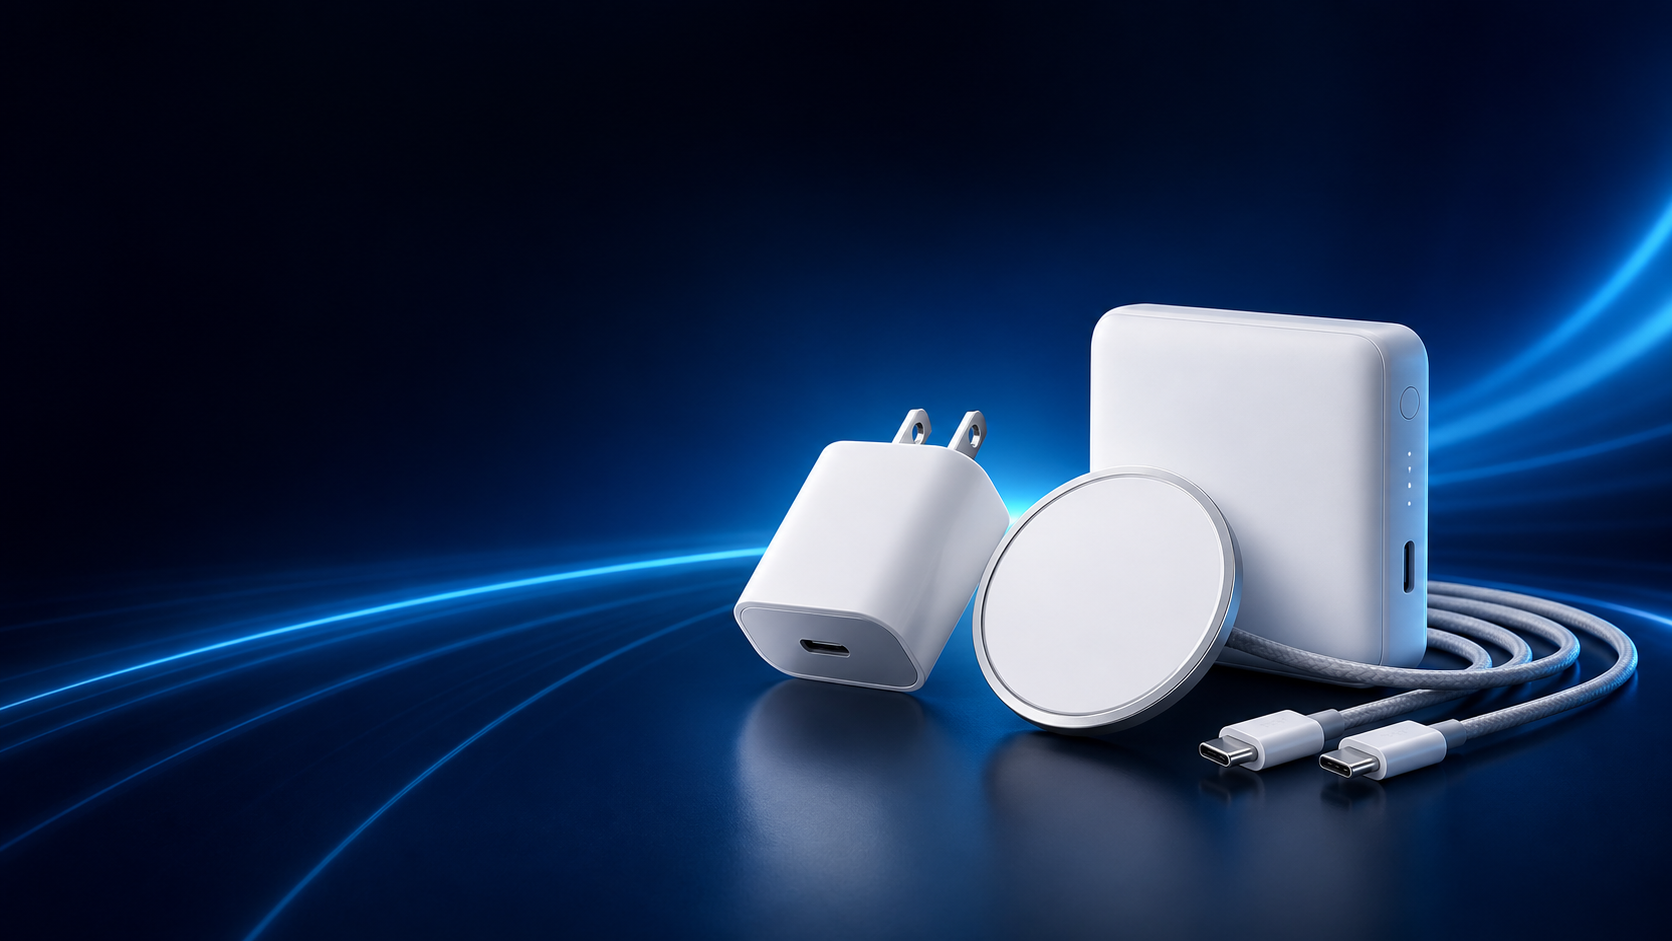
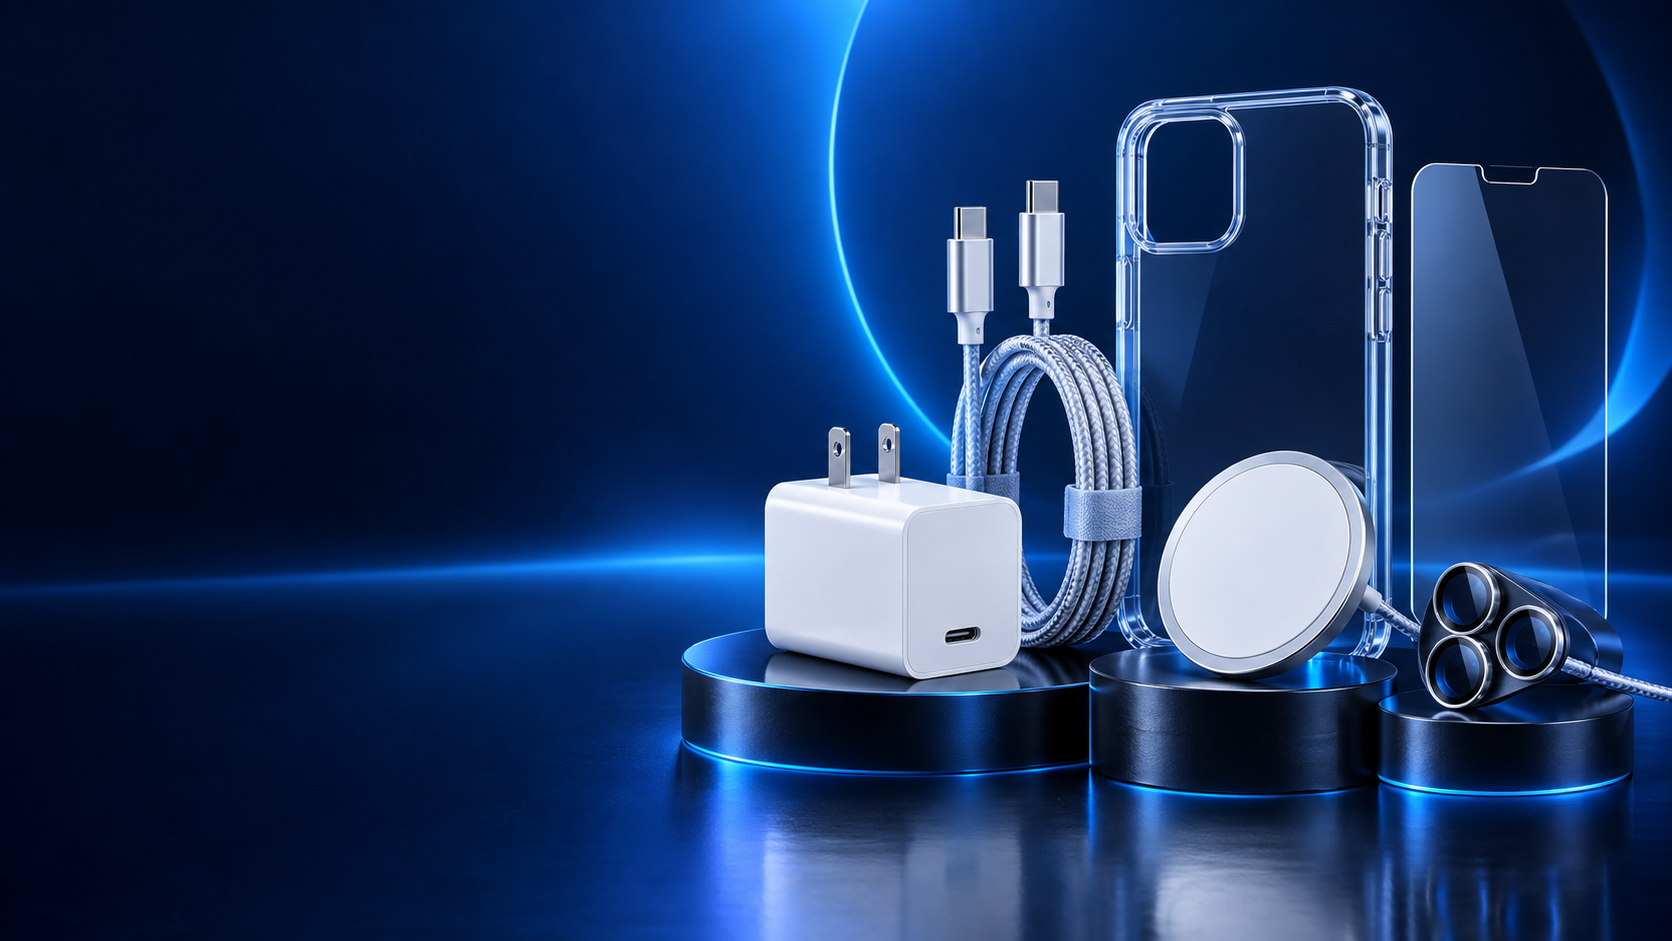
apply latest deployment

diff --git a/scripts/rm-mobile-hub-data.js b/scripts/rm-mobile-hub-data.js
@@ -1,19 +1,19 @@
 const storeProfile = {
   name: 'RM Mobile Hub',
-  description: 'Fast chargers, durable cables and magnetic accessories for iPhone, iPad and everyday Apple setups.',
-  logo: '/storefront/rm-mobile-hub-logo.png',
+  description: 'Protective glass, full-body films, cases, fast chargers and dependable cables for your everyday Apple setup.',
+  logo: '/storefront/rm-mobile-hub-logo-v2.svg',
   banner: '/storefront/rm-mobile-hub-hero.png',
-  hero_title: 'Power up your Apple essentials.',
-  hero_cta_label: 'Shop chargers & accessories',
-  announcement: 'Apple-compatible • Cash on delivery',
+  hero_title: 'Protection and power for every iPhone.',
+  hero_cta_label: 'Shop mobile accessories',
+  announcement: 'Chargers • Protection • Cash on delivery',
   hero_slides: [
     '/storefront/rm-mobile-hub-hero.png',
     '/storefront/rm-mobile-hub-hero-adapter.png',
     '/storefront/rm-mobile-hub-hero-wireless.png',
   ],
-  about_title: 'Reliable power. Better everyday accessories.',
-  about_description: 'RM Mobile Hub brings together carefully selected iPhone-compatible chargers, braided cables and magnetic accessories. We focus on dependable everyday quality, fair pricing and personal support before and after your order.',
-  about_image: '/storefront/rm-mobile-hub-hero-wireless.png',
+  about_title: 'Complete accessories. One trusted mobile hub.',
+  about_description: 'RM Mobile Hub brings together model-specific iPhone protection, dependable chargers, braided cables and magnetic accessories. We help you choose the correct fit, keep pricing clear and provide personal support before and after your order.',
+  about_image: '/storefront/rm-mobile-hub-hero.png',
   primary_color: '#2563eb',
   currency: 'PKR',
   delivery_fee: 250,
@@ -37,6 +37,31 @@ const categoryProfiles = [
     slug: 'cables-accessories',
     description: 'Durable cables and practical accessories for Apple devices.',
   },
+];
+
+const iphoneModelOptions = [
+  'iPhone 13',
+  'iPhone 13 mini',
+  'iPhone 13 Pro',
+  'iPhone 13 Pro Max',
+  'iPhone 14',
+  'iPhone 14 Plus',
+  'iPhone 14 Pro',
+  'iPhone 14 Pro Max',
+  'iPhone 15',
+  'iPhone 15 Plus',
+  'iPhone 15 Pro',
+  'iPhone 15 Pro Max',
+  'iPhone 16',
+  'iPhone 16 Plus',
+  'iPhone 16 Pro',
+  'iPhone 16 Pro Max',
+  'iPhone 16e',
+  'iPhone 17',
+  'iPhone 17e',
+  'iPhone Air',
+  'iPhone 17 Pro',
+  'iPhone 17 Pro Max',
 ];
 
 const productProfiles = [
@@ -213,6 +238,106 @@ const productProfiles = [
       { key: 'Vehicle input', value: '12V–24V', type: 'text' },
     ],
     variants: [],
+  },
+  {
+    name: '9H Tempered Glass Screen Protector',
+    slug: '9h-tempered-glass-screen-protector',
+    description: 'A model-specific full-cover tempered glass protector with a smooth oleophobic finish, clear touch response and precise speaker and sensor cut-outs. Select your exact iPhone model before ordering; a cleaning kit and alignment frame are included for an easier, bubble-free fit.',
+    price: 1499,
+    compare_price: 1999,
+    discount: 0,
+    images: ['/storefront/rm-screen-protector.png', '/storefront/rm-screen-protector-angle-2.png', '/storefront/rm-screen-protector-angle-3.png'],
+    thumbnail: '/storefront/rm-screen-protector.png',
+    category: 'cables-accessories',
+    tags: ['screen protector', 'tempered glass', '9H', 'iPhone protection', 'model specific'],
+    stock: 75,
+    sku: 'RM-PROT-GLASS',
+    custom_properties: [
+      { key: 'Hardness', value: '9H tempered glass', type: 'text' },
+      { key: 'Finish', value: 'Clear oleophobic coating', type: 'text' },
+      { key: 'Included', value: 'Alignment frame and cleaning kit', type: 'text' },
+    ],
+    variants: [{ name: 'iPhone model', options: iphoneModelOptions, priceModifier: 0 }],
+  },
+  {
+    name: 'HD Camera Lens Protector Set',
+    slug: 'hd-camera-lens-protector-set',
+    description: 'Precision-cut optical glass rings protect the rear camera lenses from everyday scratches while keeping photos and flash clear. Choose the exact iPhone model so the ring layout matches its camera module; the set includes a complete lens cover for one phone.',
+    price: 1299,
+    compare_price: 1799,
+    discount: 0,
+    images: ['/storefront/rm-camera-lens-protector.png', '/storefront/rm-camera-lens-protector-angle-2.png', '/storefront/rm-camera-lens-protector-angle-3.png'],
+    thumbnail: '/storefront/rm-camera-lens-protector.png',
+    category: 'cables-accessories',
+    tags: ['camera lens protector', 'optical glass', 'iPhone camera', 'scratch protection', 'model specific'],
+    stock: 70,
+    sku: 'RM-PROT-LENS',
+    custom_properties: [
+      { key: 'Material', value: 'HD optical glass', type: 'text' },
+      { key: 'Fit', value: 'Model-specific camera layout', type: 'text' },
+      { key: 'Included', value: 'Complete lens set for one phone', type: 'text' },
+    ],
+    variants: [{ name: 'iPhone model', options: iphoneModelOptions, priceModifier: 0 }],
+  },
+  {
+    name: '360° Full-Body Protection Sheet',
+    slug: 'crystal-clear-back-protection-sheet',
+    description: 'A nearly invisible, model-cut hydrogel protection kit for the back glass and all four side edges of your iPhone. Separate precision-cut rail strips wrap the left, right, top and bottom edges without adding case-like bulk. Select your exact model for aligned camera, button, speaker and charging-port cut-outs.',
+    price: 999,
+    compare_price: 1399,
+    discount: 0,
+    images: ['/storefront/rm-back-protection-sheet.png', '/storefront/rm-back-protection-sheet-angle-2.png', '/storefront/rm-back-protection-sheet-angle-3.png'],
+    thumbnail: '/storefront/rm-back-protection-sheet.png',
+    category: 'cables-accessories',
+    tags: ['full body sheet', 'back protector', 'edge protection', 'hydrogel film', 'iPhone protection', 'model specific'],
+    stock: 80,
+    sku: 'RM-PROT-BACK',
+    custom_properties: [
+      { key: 'Coverage', value: 'Back glass plus all four side edges', type: 'text' },
+      { key: 'Fit', value: 'Model-specific hydrogel precision cut', type: 'text' },
+      { key: 'Included', value: 'Back film, side strips, cleaning kit and applicator', type: 'text' },
+    ],
+    variants: [{ name: 'iPhone model', options: iphoneModelOptions, priceModifier: 0 }],
+  },
+  {
+    name: 'Full Protected iPhone 4-Piece Bundle',
+    slug: 'full-protected-iphone-4-piece-bundle',
+    description: 'One complete protection offer sized for your selected iPhone: a clear magnetic protective case, full-cover tempered glass, full-body back-and-edge hydrogel sheet and HD camera lens protector set. Choose the exact model once and all four matching pieces will be prepared together.',
+    price: 3999,
+    compare_price: 5499,
+    discount: 0,
+    images: ['/storefront/rm-full-protection-bundle.png', '/storefront/rm-full-protection-bundle-angle-2.png', '/storefront/rm-full-protection-bundle-angle-3.png'],
+    thumbnail: '/storefront/rm-full-protection-bundle.png',
+    category: 'cables-accessories',
+    tags: ['iPhone protection bundle', 'case', 'screen protector', 'back sheet', 'lens protector', 'offer'],
+    stock: 45,
+    sku: 'RM-BUNDLE-FULL-PROT',
+    custom_properties: [
+      { key: 'Bundle', value: '4 matching protection pieces', type: 'text' },
+      { key: 'Included', value: 'Case, front glass, back-and-edge sheet and lens protector', type: 'text' },
+      { key: 'Fit', value: 'Prepared for the selected iPhone model', type: 'text' },
+    ],
+    variants: [{ name: 'iPhone model', options: iphoneModelOptions, priceModifier: 0 }],
+  },
+  {
+    name: 'Apple 20W USB-C Adapter & Cable Set',
+    slug: 'apple-20w-usb-c-adapter-cable-set',
+    description: 'An original-stock Apple 20W USB-C power adapter set prepared with the correct charging cable for your selected iPhone. iPhone 13 and 14 models receive a USB-C to Lightning cable; iPhone 15 and newer models receive a USB-C to USB-C cable. Retail seal and product details are checked before dispatch.',
+    price: 9999,
+    compare_price: 11499,
+    discount: 0,
+    images: ['/storefront/rm-apple-20w-adapter-cable.png', '/storefront/rm-apple-20w-adapter-cable-angle-2.png', '/storefront/rm-apple-20w-adapter-cable-angle-3.png'],
+    thumbnail: '/storefront/rm-apple-20w-adapter-cable.png',
+    category: 'chargers',
+    tags: ['Apple 20W adapter', 'original stock', 'USB-C', 'charging cable', 'iPhone charger set'],
+    stock: 30,
+    sku: 'RM-APPLE-20W-SET',
+    custom_properties: [
+      { key: 'Power', value: '20W USB-C', type: 'text' },
+      { key: 'Cable matching', value: 'Lightning for iPhone 13/14; USB-C for iPhone 15 and newer', type: 'text' },
+      { key: 'Stock policy', value: 'Retail seal and product details checked before dispatch', type: 'text' },
+    ],
+    variants: [{ name: 'iPhone model', options: iphoneModelOptions, priceModifier: 0 }],
   },
 ];
 

diff --git a/styles/globals.css b/styles/globals.css
@@ -4714,3 +4714,110 @@ body {
 .storefront-shell .store-journey-cta > div > span {
   color: color-mix(in srgb, var(--store-accent) 30%, white);
 }
+
+/* Store navigation identity. Product and hero images intentionally stay clean. */
+.storefront-shell .store-logo-image {
+  width: 42px;
+  height: 42px;
+  flex: 0 0 42px;
+  padding: 2px;
+  object-fit: contain;
+  border-radius: 11px;
+  background: rgba(255, 255, 255, .92);
+  box-shadow: 0 7px 18px var(--store-shadow);
+}
+
+@media (max-width: 680px) {
+  .storefront-shell .store-logo-image {
+    width: 36px;
+    height: 36px;
+    flex-basis: 36px;
+  }
+
+}
+
+/* A clean, high-contrast navigation mark: the square source is cropped to the
+   readable RM monogram while the adjacent text carries the full store name. */
+.storefront-shell .store-nav-logo {
+  gap: 11px;
+  color: #092f4a;
+}
+
+.storefront-shell .store-logo-frame {
+  width: 48px;
+  height: 48px;
+  flex: 0 0 48px;
+  display: grid;
+  place-items: center;
+  overflow: hidden;
+  border: 1px solid rgba(71, 197, 235, .34);
+  border-radius: 15px;
+  background: linear-gradient(145deg, #ffffff 12%, #e1f7ff 100%);
+  box-shadow: 0 9px 22px rgba(15, 126, 180, .18), inset 0 1px 0 rgba(255, 255, 255, .9);
+}
+
+.storefront-shell .store-logo-frame .store-logo-image {
+  width: 100%;
+  height: 100%;
+  max-width: none;
+  flex: none;
+  padding: 0;
+  border-radius: 0;
+  background: transparent;
+  box-shadow: none;
+  object-fit: cover;
+  transform: scale(1.03);
+  transform-origin: center;
+}
+
+.storefront-shell .store-nav-name {
+  color: #103b5a;
+  font-weight: 850;
+  letter-spacing: -.025em;
+}
+
+/* The full SVG has its own wordmark for larger placements. In the 70px
+   navigation bar, show the joined RM symbol only and use the adjacent text
+   for the readable store name. */
+.storefront-shell .store-logo-frame {
+  width: 42px;
+  height: 42px;
+  flex-basis: 42px;
+  border-radius: 13px;
+}
+
+.storefront-shell .store-logo-frame .store-logo-image {
+  transform: scale(1.42);
+  transform-origin: 50% 42%;
+}
+
+.storefront-shell .store-nav-name {
+  font-size: 1.02rem;
+  line-height: 1;
+  white-space: nowrap;
+}
+
+.storefront-shell .store-rm-mark {
+  width: 38px;
+  height: 38px;
+  flex: 0 0 38px;
+  display: grid;
+  place-items: center;
+  color: #fff;
+  border: 1px solid rgba(96, 225, 255, .72);
+  border-radius: 11px;
+  background: linear-gradient(145deg, #062747, #0a74c6 64%, #17c9e5);
+  box-shadow: 0 7px 17px rgba(7, 99, 167, .22), inset 0 1px 0 rgba(255,255,255,.25);
+  font-family: Arial, Helvetica, sans-serif;
+  font-size: .86rem;
+  font-weight: 900;
+  letter-spacing: -.12em;
+  text-indent: -.08em;
+}
+
+@media (max-width: 680px) {
+  .storefront-shell .store-nav-logo { gap: 9px; }
+  .storefront-shell .store-logo-frame { width: 38px; height: 38px; flex-basis: 38px; border-radius: 12px; }
+  .storefront-shell .store-nav-name { font-size: .94rem; }
+  .storefront-shell .store-rm-mark { width: 34px; height: 34px; flex-basis: 34px; font-size: .78rem; }
+}

diff --git a/components/store/StoreNav.tsx b/components/store/StoreNav.tsx
@@ -4,10 +4,9 @@ import { Home, Info, Menu, ShoppingBag, X } from 'lucide-react';
 import { useState } from 'react';
 import { useCart } from './CartProvider';
 import CartDrawer from './CartDrawer';
-import BrandMark from '@/components/ui/BrandMark';
 import { storefrontPath } from '@/lib/storefront-paths';
 
-export default function StoreNav({ slug, homeHref, name, logo, announcement }: { slug: string; homeHref: string; name: string; logo: string; announcement?: string }) {
+export default function StoreNav({ slug, homeHref, name, announcement }: { slug: string; homeHref: string; name: string; announcement?: string }) {
   const [cartOpen, setCartOpen] = useState(false);
   const [menuOpen, setMenuOpen] = useState(false);
   const { count } = useCart();
@@ -15,7 +14,7 @@ export default function StoreNav({ slug, homeHref, name, logo, announcement }: {
 
   return <>
     <nav className="store-navbar">
-      <Link href={homeHref} className="store-nav-logo" onClick={closeMenu}>{logo ? <img src={logo} className="store-logo-image" alt=""/> : <BrandMark size={17} className="store-logo-mark"/>}{name}</Link>
+      <Link href={homeHref} className="store-nav-logo" onClick={closeMenu}><span className="store-rm-mark" aria-label={`${name} logo`} role="img">RM</span><span className="store-nav-name">{name}</span></Link>
       <div className="store-nav-links"><Link className="store-nav-link" href={homeHref}>Home</Link><Link className="store-nav-link" href={storefrontPath(slug, 'products')}>Shop</Link><Link className="store-nav-link" href={`${homeHref}#about`}>About</Link><span className="nav-assurance">{announcement || 'Cash on delivery'}</span></div>
       <div className="store-nav-actions">
         <button className={`store-mobile-menu-btn ${menuOpen ? 'active' : ''}`} type="button" onClick={() => setMenuOpen((current) => !current)} aria-label={menuOpen ? 'Close navigation' : 'Open navigation'} aria-expanded={menuOpen} aria-controls="store-mobile-menu">{menuOpen ? <X size={19}/> : <Menu size={20}/>}</button>

diff --git a/app/store/[storeSlug]/layout.tsx b/app/store/[storeSlug]/layout.tsx
@@ -40,7 +40,7 @@ export default async function StoreLayout({ children, params }: { children: Reac
 
   return <CartProvider slug={store.slug} currency={store.currency || 'PKR'}>
     <div className="storefront-shell" data-store-theme={storeTheme} style={{ '--store-accent': storeAccent } as React.CSSProperties}>
-      <StoreNav slug={store.slug} homeHref={homeHref} name={store.name} logo={store.logo} announcement={store.announcement}/>
+      <StoreNav slug={store.slug} homeHref={homeHref} name={store.name} announcement={store.announcement}/>
       {children}
       <footer className="store-footer">
         <div><strong>{store.name}</strong><span>{store.description}</span></div>

diff --git a/scripts/rebrand-rm-mobile-hub.js b/scripts/rebrand-rm-mobile-hub.js
@@ -65,9 +65,8 @@ async function rebrandRmMobileHub() {
   failOn(productReadError, 'Reading products');
 
   const retainedProductIds = [];
-  for (let index = 0; index < productProfiles.length; index += 1) {
-    const profile = productProfiles[index];
-    const current = existingProducts.find((item) => item.slug === profile.slug) || existingProducts[index];
+  for (const profile of productProfiles) {
+    const current = existingProducts.find((item) => item.slug === profile.slug);
     const id = current?.id || randomUUID();
     const { category, ...product } = profile;
     const row = {
